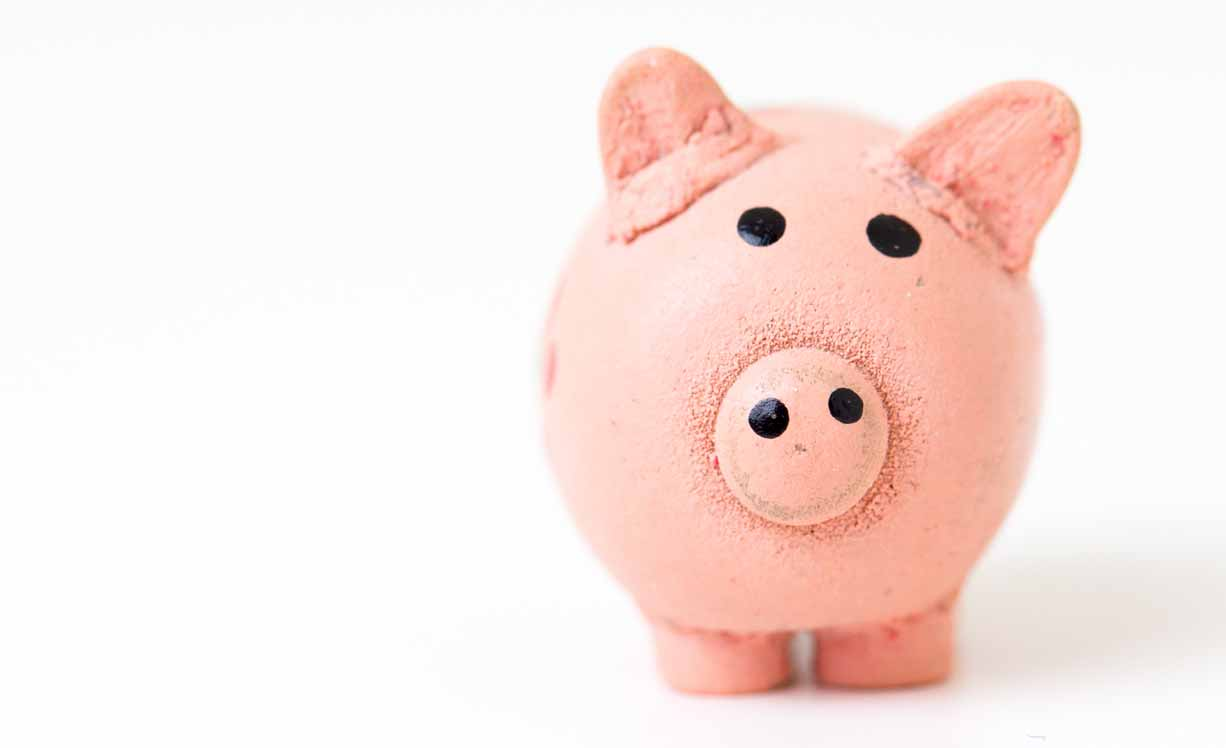
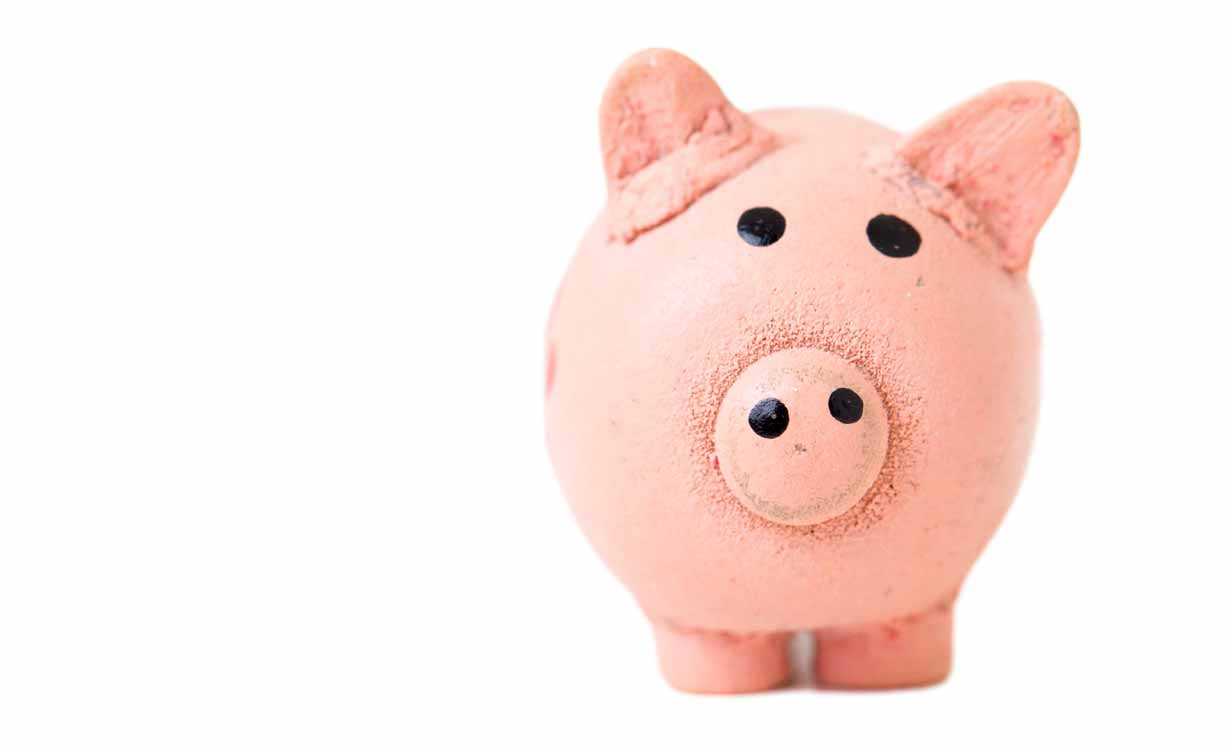
added tour page and resized img

Changed region(s): [[0.5579, 0.738, 0.9918, 0.9532], [0.8059, 0.7072, 0.8369, 0.738], [0.5889, 0.123, 0.6199, 0.1537]]

diff --git a/index.html b/index.html
@@ -21,8 +21,7 @@
       <ul class="nav push-0 list-group">
         <li><a class="link-box island-1-2" href="customers.html">Customers</a></li>
         <li><a class="link-box island-1-2" href="pricing.html">Princing</a></li>
-        <li><a class="link-box island-1-2" href="features.html">Features</a></li>
-        <li><a class="link-box island-1-2" href="sign-up.html">Sign Up</a></li>
+        <li><a class="link-box island-1-2" href="tour.html">Features</a></li>
       </ul>
     </nav>
   </header>
@@ -38,7 +37,7 @@
           <h1 class=" bold yotta text-center push-1-4"> Logo Design Made Simple</h1>
           <p class="text-white mega text-center">Instant Custom-Made Logos</p>
           <div class="text-center">
-            <a href="thank-you.html" class="push-0 btn">Try It</a>
+            <a href="sign-up.html" class="push-0 btn">Sign Up</a>
           </div>
         </div>
       </div>
@@ -47,11 +46,12 @@
 
   <main>
     <!--products-->
-    <div class="grid card-section">
+    <div class="pad-t-2 grid card-section">
+
       <div class="cards unit xs-1 s-1 m-1-3 l-1-3">
-        <h2 class="bold exa text-center text-dark push-1-2">Business Cards</h2>
+        <h2 class="bold terra text-center text-dark push-1-2">Business Cards</h2>
         <figure class="gutter">
-          <img class="pad-b-1-2 card-img img-flex" src="images/business-card.jpg" alt="#">
+          <img class="pad-b-1-2 card-img img-flex" src="images/product-business-card.jpg" alt="#">
           <figcaption>
             <p class="text-center max-length">Unlimited business card design ensure your brand is always perfectly represented to others.</p>
           </figcaption>
@@ -60,9 +60,9 @@
       </div>
 
       <div class="cards unit xs-1 s-1 m-1-3 l-1-3">
-        <h2 class="bold exa text-center text-dark push-1-2">Business Cards</h2>
+        <h2 class="bold terra text-center text-dark push-1-2">Social Media</h2>
         <figure class="gutter">
-          <img class="pad-b-1-2 card-img img-flex" src="images/business-card.jpg" alt="#">
+          <img class="pad-b-1-2 card-img img-flex" src="images/product-social-media.jpg" alt="#">
           <figcaption>
             <p class="text-center max-length">Unlimited business card design ensure your brand is always perfectly represented to others.</p>
           </figcaption>
@@ -71,9 +71,9 @@
       </div>
 
       <div class="cards unit xs-1 s-1 m-1-3 l-1-3">
-        <h2 class="bold exa text-center text-dark push-1-2">Business Cards</h2>
+        <h2 class="bold terra text-center text-dark push-1-2">Brand</h2>
         <figure class="gutter">
-          <img class="pad-b-1-2 card-img img-flex" src="images/business-card.jpg" alt="#">
+          <img class="pad-b-1-2 card-img img-flex" src="images/product-brand.jpg" alt="#">
           <figcaption>
             <p class="text-center max-length">Unlimited business card design ensure your brand is always perfectly represented to others.</p>
           </figcaption>
@@ -88,7 +88,7 @@
       <div class="grid grid-stretch text-left">
         <div class="push-1-2 gutter-1-2 unit xs-1 s-1 m-1-2 l-1-2 xl-1-2">
           <h2 class="bold exa push-1-2">Great Prices</h2>
-          <span class="push-1-2 max-length milli">Our logo maker allows you to design entire brands instantly! Best of all, you can make it before paying.</span>
+          <p class="push-1-2 max-length milli">Our logo maker allows you to design entire brands instantly! Best of all, you can make it before paying.</p>
           <a class="link-box btn kilo content-shrink" href="pricing.html">Princing</a>
         </div>
         <div class="unit xs-1 s-1 m-1-2 l-1-2 xl-1-2">
@@ -99,20 +99,21 @@
 
     <hr>
 
-    <section class="gutter-1-2 grid pad-t-2 pad-b-2 section-light">
+    <section class="grid section-light">
       <div class="grid grid-stretch text-left">
-        <div class="push-1-2 gutter-1-2 unit xs-1 s-1 m-1-2 l-1-2 xl-1-2">
+        <div class="unit xs-1 s-1 m-1-2 l-1-2 xl-1-2">
+          <img class="img-flex" src="images/beautiful-logo-design.jpg" alt="#">
+        </div>
+        <div class="pad-t-2 push-1-2 gutter unit xs-1 s-1 m-1-2 l-1-2 xl-1-2">
           <h2 class="bold exa push-1-2">Beatiful Logo Design</h2>
           <p class="push-1-2 max-length milli">Whether this is the first logo you’ve created, or just the first time you’re using our logo creator, we’ll make sure that your brand sticks out from the rest of the pack.</p>
           <span><a class="btn kilo content-shrink" href="features.html">Features</a></span>
-        </div>
-        <div class="unit xs-1 s-1 m-1-2 l-1-2 xl-1-2">
-          <img class="pad-t-1-2 pad-b-1-2 img-flex" src="images/beautiful-logo-design.jpg" alt="#">
         </div>
       </div>
     </section>
   </main>
 
+  <!--footer-->
   <footer class=" gutter-1-2 section-dark">
     <div class="grid">
       <div class="text-center pad-t unit xs-1 s-1 m-1 l-1 xl-1">

diff --git a/tour.html b/tour.html
@@ -14,14 +14,14 @@
   <!--header nav-->
   <header class="grid masthead grid-middle section-dark island-1-8 pad-0">
     <div class="push-0 gutter-0 unit xs-1 s-1 m-1-3 l-1-4 xl-1-4">
-      <a href="index.html"><img class="logo gutter-0 push-0" src="images/generation-logo.svg"></a>
+      <a href="index.html"><img class="logo gutter-0 push-0" src="images/generation-logo.svg" alt="logo"></a>
     </div>
 
     <nav class="unit xs-1 s-1 m-2-3 l-3-4 xl-3-4">
       <ul class="nav push-0 list-group">
         <li><a class="island-1-2" href="customers.html">Customers</a></li>
         <li><a class="island-1-2" href="pricing.html">Princing</a></li>
-        <li><a class="current island-1-2" href="features.html">Features</a></li>
+        <li><a class="current island-1-2" href="tour.html">Features</a></li>
       </ul>
     </nav>
   </header>
@@ -35,6 +35,7 @@
       <div class="banner-content gutter-1-2">
         <div class="pin-c max-length">
           <h1 class="bold yotta text-center push-0">Many Option To Choose From</h1>
+        </div>
       </div>
     </div>
   </section>
@@ -90,7 +91,7 @@
         </div>
         <div class="unit xs-1 s-1 m-2-3 l-2-3 xl-2-3">
           <ol class="pad-t-2 gutter-2 list-group">
-            <a><li class="block push-2 text-light">1. Why do I need a Subcription?</li></a>
+            <li class="block push-2 text-light">1. Why do I need a Subcription?</li>
             <p class="visually-hidden">Our plans grants you unlimited storage for all your files with us and you can refine your logos to your liking. You'll also have access to your own brand profile for as long as you have a subscription with Generator.</p>
             <li class="block push-2 text-light">2. Do I keep all the rights to my logo?</li>
             <li class="block push-2 text-light">3. How long is the subcription period?</li>
@@ -106,17 +107,15 @@
   <footer class=" gutter-1-2 section-dark">
     <div class="grid">
       <div class="text-center pad-t unit xs-1 s-1 m-1 l-1 xl-1">
-        <ul>
-          <i class="icon i-64 gutter-2">
-            <a href="#"><img class="svg" src="images/logo-instagram.svg" alt="#"></a>
-          </i>
-          <i class="icon i-64 gutter-2">
-            <a href="#"><img class="svg" src="images/logo-facebook.svg" alt="#"></a>
-          </i>
-          <i class="icon i-64 gutter-2">
-            <a href="#"><img class="svg" src="images/logo-twitter.svg" alt="#"></a>
-          </i>
-        </ul>
+        <i class="icon i-64 gutter-2">
+          <a href="#"><img class="svg" src="images/logo-instagram.svg" alt="#"></a>
+        </i>
+        <i class="icon i-64 gutter-2">
+          <a href="#"><img class="svg" src="images/logo-facebook.svg" alt="#"></a>
+        </i>
+        <i class="icon i-64 gutter-2">
+          <a href="#"><img class="svg" src="images/logo-twitter.svg" alt="#"></a>
+        </i>
       </div>
     </div>
 

diff --git a/customers.html b/customers.html
@@ -11,22 +11,21 @@
   <link href="https://fonts.googleapis.com/css?family=Merriweather+Sans:400,700,800" rel="stylesheet">
 </head>
 <body>
-
+  <!--header nav-->
   <header class="grid masthead grid-middle section-dark island-1-8 pad-0">
     <div class="push-0 gutter-0 unit xs-1 s-1 m-1-3 l-1-4 xl-1-4">
-      <a href="index.html"><img class="logo gutter-0 push-0" src="images/generation-logo.svg"></a>
+      <a href="index.html"><img class="logo gutter-0 push-0" src="images/generation-logo.svg" alt="logo"></a>
     </div>
 
     <nav class="unit xs-1 s-1 m-2-3 l-3-4 xl-3-4">
       <ul class="nav push-0 list-group">
         <li><a class="current island-1-2" href="customers.html">Customers</a></li>
         <li><a class="island-1-2" href="pricing.html">Princing</a></li>
-        <li><a class="island-1-2" href="features.html">Features</a></li>
-        <li><a class="island-1-2" href="sign-up.html">Sign Up</a></li>
+        <li><a class="island-1-2" href="tour.html">Features</a></li>
       </ul>
     </nav>
   </header>
-
+<!--banner-->
   <section>
     <div class="banner">
       <div class="embed embed-16by9">
@@ -41,11 +40,11 @@
   </section>
 
   <main>
-
-    <div class="grid grid-middle">
+<!--intro-->
+    <div class="grid grid-middle push">
       <div class="unit xs-1 s-1 unit-m-centered unit-l-centered unit-xl-centered text-center gutter-2">
         <h2 class="bold exa pad-t-2 push-1-2">Making Design Simple</h2>
-        <p>Brisket cow picanha capicola turducken tongue jerky ribeye bacon spare ribs chicken. Fatback alcatra turducken pig cupim, corned beef t-bone kielbasa tongue andouille hamburger sirloin capicola pastrami.</p>
+        <p>What if you could design anything you need in less than 30 seconds? With Tailor Brand’s online platform you can! From logo designs to presentations, or even entire brands, we’ve got you covered! Design a logo on the spot.</p>
       </div>
     </div>
 
@@ -64,6 +63,7 @@
       </div>
     </div>
 
+<!--reviews-->
     <section class="gutter-1-2  pad-t-2 pad-b-2">
       <h2 class="bold exa text-center pad-t-2">Reviews</h2>
 
@@ -105,6 +105,7 @@
     </section>
   </main>
 
+<!--footer-->
   <footer class=" gutter-1-2 section-dark">
     <div class="grid">
       <div class="text-center pad-t unit xs-1 s-1 m-1 l-1 xl-1">

diff --git a/sign-up.html b/sign-up.html
@@ -11,26 +11,27 @@
   <link href="https://fonts.googleapis.com/css?family=Merriweather+Sans:400,700,800" rel="stylesheet">
 </head>
 <body>
-
+  <!--header nav-->
   <header class="grid masthead grid-middle section-dark island-1-8 pad-0">
     <div class="push-0 gutter-0 unit xs-1 s-1 m-1-3 l-1-4 xl-1-4">
-      <a href="index.html"><img class="logo gutter-0 push-0" src="images/generation-logo.svg" alt=""></a>
+      <a href="index.html"><img class="logo gutter-0 push-0" src="images/generation-logo.svg" alt="logo"></a>
     </div>
 
     <nav class="unit xs-1 s-1 m-2-3 l-3-4 xl-3-4">
       <ul class="nav push-0 list-group">
         <li><a class="island-1-2" href="customers.html">Customers</a></li>
         <li><a class="island-1-2" href="pricing.html">Princing</a></li>
-        <li><a class="island-1-2" href="features.html">Features</a></li>
-        <li><a class="current island-1-2" href="sign-up.html">Sign Up</a></li>
+        <li><a class="island-1-2" href="tour.html">Features</a></li>
+        <li><a class="current island-1-2" href="sign-up.html"></a></li>
       </ul>
     </nav>
   </header>
 
   <main class="island text-center">
+    <!--sign up form-->
     <section class="pad-t pad-b">
       <h1 class="bold push-2 text-center exa">Sign Up</h1>
-      <form class="push-0" method="post" action="https://formspree.io/mitt0033@algonquinlive.com">
+      <form class="push-0" method="post" action="https://formspree.io/">
         <div class="grid grid-middle">
           <div class="sidebyside unit xs-1 s-1 m-1 l-1 xl-1 push">
             <label class="push-1-4 text-left micro text-light" for="name">Name</label>
@@ -62,6 +63,7 @@
 
   </main>
 
+<!--footer-->
   <footer class=" gutter-1-2 section-dark">
     <div class="grid">
       <div class="text-center pad-t unit xs-1 s-1 m-1 l-1 xl-1">

diff --git a/pricing.html b/pricing.html
@@ -11,7 +11,7 @@
   <link href="https://fonts.googleapis.com/css?family=Merriweather+Sans:400,700,800" rel="stylesheet">
 </head>
 <body>
-
+  <!--header nav-->
   <header class="grid masthead grid-middle section-dark island-1-8 pad-0">
     <div class="push-0 gutter-0 unit xs-1 s-1 m-1-3 l-1-4 xl-1-4">
       <a href="index.html"><img class="logo gutter-0 push-0" src="images/generation-logo.svg" alt="logo"></a>
@@ -19,14 +19,20 @@
 
     <nav class="unit xs-1 s-1 m-2-3 l-3-4 xl-3-4">
       <ul class="nav push-0 list-group">
-        <li><a class="island-1-2" href="customers.html">Customers</a></li>
-        <li><a class="current island-1-2" href="pricing.html">Princing</a></li>
-        <li><a class="island-1-2" href="features.html">Features</a></li>
-        <li><a class="island-1-2" href="sign-up.html">Sign Up</a></li>
+        <li>
+          <a class="island-1-2" href="customers.html">Customers</a>
+        </li>
+        <li>
+          <a class="current island-1-2" href="pricing.html">Princing</a>
+        </li>
+        <li>
+          <a class="island-1-2" href="tour.html">Features</a>
+        </li>
       </ul>
     </nav>
   </header>
 
+<!--banner-->
   <section>
     <div class="banner">
       <div class="embed embed-16by9">
@@ -41,6 +47,7 @@
   </section>
 
   <main>
+    <!--prices-->
     <div class="grid">
       <div class="unit xs-1 s-1 m-1 l-1 xl-1 pad-t-2 pad-b-2 gutter">
 
@@ -106,6 +113,7 @@
 
   </main>
 
+  <!--footer-->
   <footer class=" gutter-1-2 section-dark">
     <div class="grid">
       <div class="text-center pad-t unit xs-1 s-1 m-1 l-1 xl-1">

diff --git a/thank-you.html b/thank-you.html
@@ -10,16 +10,17 @@
 </head>
 
   <body>
-    <div>
+    <main>
+      <!--thank you-->
       <div class="list-group">
-        <i class="icon i-96 svg">
-          <a href="index.html"> <img src="images/generation-logo.svg" alt="logo"></a>
-        </i>
+          <i class="icon i-96 svg">
+            <a href="index.html"> <img src="images/generation-logo.svg" alt="logo"></a>
+          </i>
+        </div>
+        <h1 class="bold yotta">Thank You!</h1>
+
+        <a class="link-box btn" href="index.html">Back To Site</a>
       </div>
-      <h1 class="bold yotta">Thank You!</h1>
-
-      <a class="link-box btn" href="index.html">Back To Site</a>
-    </div>
-
+    </main>
   </body>
 </html>
